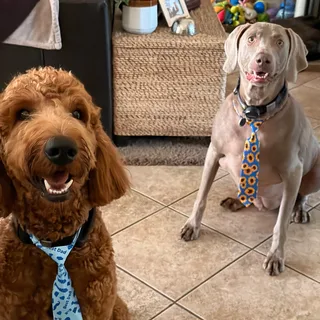
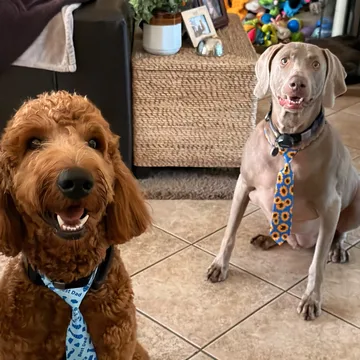
Intro copy, jump links, mobile spacing, headshot crop, gray form fields until submit
Claude-Session: https://claude.ai/code/session_01FNY3CkuyEtdAKGc2WTVSah

diff --git a/index.html b/index.html
@@ -90,7 +90,7 @@
             <span>Home grooming studio</span><span class="sep" aria-hidden="true">|</span><span class="sr-only">, </span><span class="loc">Chandler, Arizona</span>
           </p>
           <h1 id="hero-title"><span class="h1-line">Experienced hands.</span> <span class="h1-line">A caring heart.</span></h1>
-          <p class="lede">Julie brings a love of furry friends and years of grooming experience to her dedicated home studio. At <span class="nowrap">Ruff-N-Fluff</span>, your pet receives professional grooming and the same loving care she gives her own.</p>
+          <p class="lede">Julie brings years of grooming experience and a love of furry friends to her dedicated home studio. At <span class="nowrap">Ruff-N-Fluff</span>, your pet receives professional grooming and the same loving care Julie provides for her furry family.</p>
           <div class="actions">
             <a class="btn btn-primary" href="#contact">Request an Appointment</a>
             <a class="btn btn-secondary" href="#services">Explore Services</a>
@@ -208,7 +208,8 @@
         </div>
 
 
-        <div id="pricing" class="price-factors perch" style="--w: min(clamp(320px, 50vw, 680px), calc(100% - 3rem)); --ratio: .477; --ledge: 0; --right: 1.5rem;">
+        <div class="price-factors perch" style="--w: min(clamp(320px, 50vw, 680px), calc(100% - 3rem)); --ratio: .477; --ledge: 0; --right: 1.5rem;">
+          <span id="pricing" class="anchor-pets" aria-hidden="true"></span>
           <img class="cutout" src="images/towel-dogs.webp" width="1100" height="525" alt="" loading="lazy" decoding="async">
           <img class="cutout-towel-cat" src="images/towel-cat.webp" width="500" height="596" alt="" loading="lazy" decoding="async">
           <h3>What affects the price?</h3>
@@ -264,12 +265,13 @@
           <li>
             <span class="step-num" aria-hidden="true">3</span>
             <h3>Arrive for sPAWtime.</h3>
-            <p><span class="ml">Bring your pet at the agreed time.</span> <span class="ml">Julie will confirm pickup</span> <span class="ml">arrangements with you.</span></p>
+            <p><span class="ml">Bring your pet at the agreed time.</span> <span class="ml">Julie will confirm arrangements</span> <span class="ml">for pickup with you.</span></p>
           </li>
         </ol>
 
         <!-- Pickup policy (Julie’s copy) -->
-        <div id="pickup" class="policy perch" aria-label="Pickup policy" style="--w: clamp(320px, 39vw, 540px); --ratio: .506; --ledge: .2; --right: 0px;">
+        <div class="policy perch" aria-label="Pickup policy" style="--w: clamp(320px, 39vw, 540px); --ratio: .506; --ledge: .2; --right: 0px;">
+          <span id="pickup" class="anchor-pets" aria-hidden="true"></span>
           <img class="cutout" src="images/rottie-kitten.webp" width="800" height="405" alt="" loading="lazy" decoding="async">
           <p class="kicker">Pickup policy</p>
           <div class="policy-grid">
@@ -294,7 +296,7 @@
           <p class="kicker">Happy pets</p>
           <h2 id="pets-title">Familiar faces. Happy visits.</h2>
           <p>From little paws to big personalities, furry friends receive loving care and leave looking fresh. Here’s a peek at sPAWtime at <span class="nowrap">Ruff-N-Fluff</span>.</p>
-          <p class="review-note review-only">Confirm permission to use photos of Annie and Leo.</p>
+          <p class="review-note review-only">Obtain photo release for usage of Annie and Leo.</p>
         </header>
 
         <div class="gallery">
@@ -318,9 +320,10 @@
             <figcaption>Koda and Miloh, suited up for Father’s Day.</figcaption>
           </figure>
 
-          <div class="photo photo-slot review-only" aria-hidden="true">
-            <span>Photo needed from Julie</span>
-          </div>
+          <figure class="photo review-only" aria-hidden="true">
+            <div class="photo-slot"><span>Happy furry friend photo to come</span></div>
+            <figcaption><span class="tbc">Descriptive of image above here.</span></figcaption>
+          </figure>
         </div>
 
         <!-- KIND WORDS
@@ -343,7 +346,7 @@
             <figure class="testimonial review-only">
               <div class="t-photo t-photo-empty" role="img" aria-label="Placeholder for Annie’s headshot"><span>Annie’s photo</span></div>
               <blockquote>
-                <p>“I’m 7 and received my first PAWdicure from Julie. To say I was resistant is an understatement. Julie was most patient, generous with praise and honored my comfort level. Now I actually look forward to a little sPAWtime away from the boys.”</p>
+                <p>“I was 7 when I received my first professional PAWdicure. To say I was resistant is an understatement. Julie was most patient, generous with praise and honored my comfort level. Now I actually look forward to a little sPAWtime away from the boys.”</p>
               </blockquote>
               <figcaption><strong>Annie</strong><span>In her own words, as shared by her dad, Jon S.</span></figcaption>
             </figure>
@@ -560,7 +563,7 @@
           <li>Vaccination and health requirements</li>
           <li>Matting and cancellation policies</li>
           <li>How Julie sends the <span class="nowrap">ready-for-pickup</span> notification</li>
-          <li>Confirm permission to use photos of Annie and Leo (release form)</li>
+          <li>Obtain photo release for usage of Annie and Leo</li>
           <li>Annie’s headshot</li>
           <li>LisaQ’s approval of the proposed testimonial</li>
           <li>Julie’s portrait</li>

diff --git a/css/styles.css b/css/styles.css
@@ -237,7 +237,8 @@ html:not(.is-review) .review-only { display: none !important; }
     display: none;
   }
   .site-nav.is-open { display: flex; }
-  .site-nav ul { flex-direction: column; gap: 0; }
+  .site-nav { align-items: flex-start; }
+  .site-nav ul { flex-direction: column; align-items: stretch; gap: 0; width: 13.05rem; }
   .site-nav ul a { display: block; padding: 0.8rem 0; border-bottom: 1px solid var(--line); }
   .site-nav ul a:hover { border-color: var(--line); color: var(--teal-dark); }
 }
@@ -578,6 +579,8 @@ html:not(.is-review) .photo-slot { display: none; }
 .faq-list { border-top: 1px solid #D7CFC2; }
 .faq-wrap .section-head { margin-bottom: 0; }
 .faq-list details { border-bottom: 1px solid #D7CFC2; }
+.faq-list details:last-child { border-bottom: 0; }
+#faqs { padding-bottom: calc(var(--section-pad) / 2); }
 .faq-list summary {
   list-style: none; cursor: pointer;
   display: flex; justify-content: space-between; align-items: center; gap: 1.5rem;
@@ -766,3 +769,24 @@ html:not(.is-review) .photo-slot { display: none; }
   .call-options { right: auto; left: 0; }
 }
 @media (max-width: 960px) { .portrait-slot { justify-content: flex-start; padding-top: 2.5rem; } }
+
+/* Jump links land with the pets above the section in view */
+.anchor-pets { position: absolute; left: 0; height: 0; top: calc(-1 * var(--w) * var(--ratio) * (1 - var(--ledge)) - 1rem); }
+.photo .photo-slot { margin: 0; }
+@media (max-width: 960px) {
+  /* Experience strip: more room above than below */
+  .facts { padding-top: 2.25rem; padding-bottom: 1.25rem; }
+  /* How it works: a quarter less space above the Doberman */
+  #meet-julie { padding-bottom: calc((var(--section-pad) + clamp(195px, 24vw, 285px) * .663 * .873) * .75); }
+  /* Step 3: a third less space after; half again above the pickup policy */
+  .steps li:last-child p { margin-bottom: 0.67em; }
+  .policy.perch { margin-top: calc(var(--w) * var(--ratio) * (1 - var(--ledge)) + 2.33rem); padding-top: calc(clamp(2rem, 4vw, 2.5rem) * 1.5); }
+}
+@media (max-width: 760px) {
+  #services > .suds-b { display: block; transform: translateY(45%); }
+}
+#pricing.anchor-pets { top: calc(-1 * min(clamp(320px, 50vw, 680px), 100vw - 2 * var(--gutter) - 3rem) * .477 - 1rem); }
+@media (max-width: 960px) { #pricing.anchor-pets { top: calc(-1 * (100vw - 2 * var(--gutter) - 1.5rem) / 1.2 * .477 - 1rem); } }
+
+/* Only the form's own submit check turns fields red */
+.field :is(input, select, textarea):user-invalid:not([aria-invalid="true"]) { border-color: #CFCFCF; background: #FAFAFA; box-shadow: none; }

diff --git a/js/main.js b/js/main.js
@@ -98,6 +98,20 @@
       });
     });
 
+    /* Fields stay gray until someone tries to send the form with required fields empty.
+       Arriving at the form from any Request an Appointment link starts it fresh. */
+    function resetFields() {
+      required.forEach(function (field) {
+        field.removeAttribute("aria-invalid");
+        var err = document.getElementById(field.id + "-error");
+        if (err) err.hidden = true;
+      });
+      if (status) status.hidden = true;
+    }
+    document.querySelectorAll('a[href="#contact"]').forEach(function (link) {
+      link.addEventListener("click", resetFields);
+    });
+
     form.addEventListener("submit", function (e) {
       e.preventDefault();
       var firstInvalid = null;
